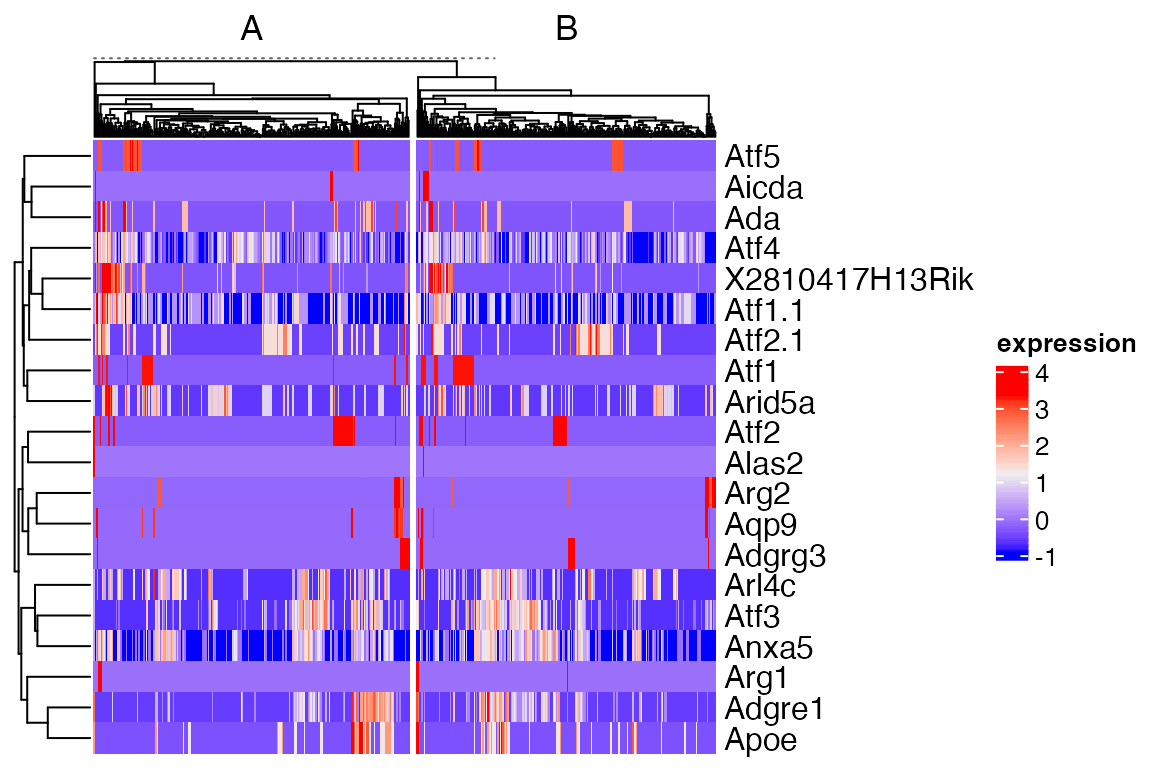
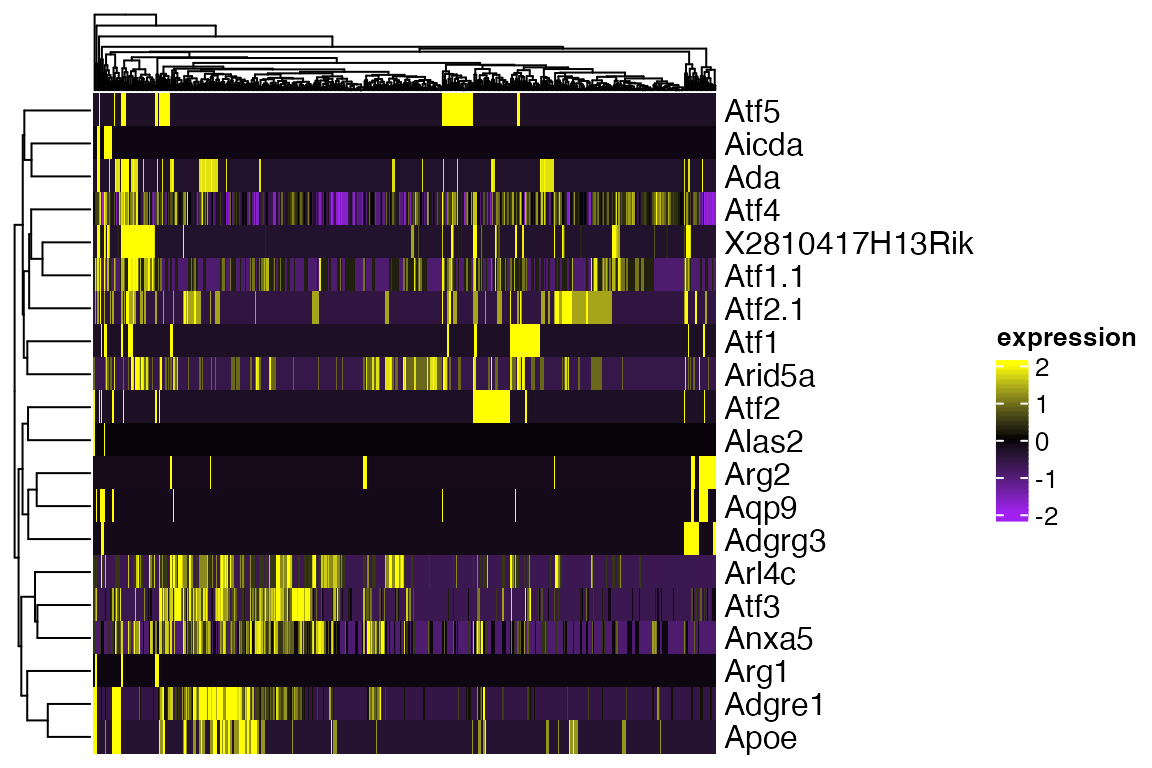
Built site for scmisc: 0.1.0@a576aa8

diff --git a/articles/introduction.html b/articles/introduction.html
@@ -162,14 +162,18 @@
 <p><img src="introduction_files/figure-html/unnamed-chunk-6-1.png" width="576"></p>
 <p>We can use <em>ComplexHeatmap</em> advance annotation features with the heatmap by passing them directly.</p>
 <div class="sourceCode" id="cb11"><pre class="downlit sourceCode r">
-<code class="sourceCode R"><span class="fu"><a href="../reference/plot_heatmap.html">plot_heatmap</a></span><span class="op">(</span><span class="va">sce</span><span class="op">[</span><span class="fl">1</span><span class="op">:</span><span class="fl">20</span>, <span class="op">]</span>, column_split <span class="op">=</span> <span class="va">sce</span><span class="op">$</span><span class="va">group1</span><span class="op">)</span></code></pre></div>
+<code class="sourceCode R"><span class="va">cols</span> <span class="op">&lt;-</span> <span class="fu">circlize</span><span class="fu">::</span><span class="fu"><a href="https://rdrr.io/pkg/circlize/man/colorRamp2.html">colorRamp2</a></span><span class="op">(</span><span class="fu"><a href="https://rdrr.io/r/base/c.html">c</a></span><span class="op">(</span><span class="op">-</span><span class="fl">2</span>, <span class="fl">0</span>, <span class="fl">2</span><span class="op">)</span>, <span class="fu"><a href="https://rdrr.io/r/base/c.html">c</a></span><span class="op">(</span><span class="st">"purple"</span>, <span class="st">"black"</span>, <span class="st">"yellow"</span><span class="op">)</span><span class="op">)</span>
+<span class="fu"><a href="../reference/plot_heatmap.html">plot_heatmap</a></span><span class="op">(</span><span class="va">sce</span><span class="op">[</span><span class="fl">1</span><span class="op">:</span><span class="fl">20</span>, <span class="op">]</span>, col <span class="op">=</span> <span class="va">cols</span><span class="op">)</span></code></pre></div>
 <p><img src="introduction_files/figure-html/unnamed-chunk-7-1.png" width="576"></p>
-<p>For column annotations we can directly pass the variable names to use with the color specification using <em>top_ann</em> and <em>top_ann_col</em>.</p>
 <div class="sourceCode" id="cb12"><pre class="downlit sourceCode r">
+<code class="sourceCode R"><span class="fu"><a href="../reference/plot_heatmap.html">plot_heatmap</a></span><span class="op">(</span><span class="va">sce</span><span class="op">[</span><span class="fl">1</span><span class="op">:</span><span class="fl">20</span>, <span class="op">]</span>, column_split <span class="op">=</span> <span class="va">sce</span><span class="op">$</span><span class="va">group1</span><span class="op">)</span></code></pre></div>
+<p><img src="introduction_files/figure-html/unnamed-chunk-8-1.png" width="576"></p>
+<p>For column annotations we can directly pass the variable names to use with the color specification using <em>top_ann</em> and <em>top_ann_col</em>.</p>
+<div class="sourceCode" id="cb13"><pre class="downlit sourceCode r">
 <code class="sourceCode R"><span class="va">col</span> <span class="op">&lt;-</span> <span class="fu"><a href="https://rdrr.io/r/base/list.html">list</a></span><span class="op">(</span>group1 <span class="op">=</span> <span class="fu"><a href="https://rdrr.io/r/base/c.html">c</a></span><span class="op">(</span>A <span class="op">=</span> <span class="st">"lightgrey"</span>, B <span class="op">=</span> <span class="st">"black"</span><span class="op">)</span>,
             group2 <span class="op">=</span> <span class="fu"><a href="https://rdrr.io/r/base/c.html">c</a></span><span class="op">(</span><span class="st">"C"</span> <span class="op">=</span> <span class="st">"limegreen"</span>, <span class="st">"D"</span> <span class="op">=</span> <span class="st">"violetred"</span><span class="op">)</span><span class="op">)</span>
 <span class="fu"><a href="../reference/plot_heatmap.html">plot_heatmap</a></span><span class="op">(</span><span class="va">sce</span><span class="op">[</span><span class="fl">1</span><span class="op">:</span><span class="fl">20</span>, <span class="op">]</span>, column_split <span class="op">=</span> <span class="va">sce</span><span class="op">$</span><span class="va">group1</span>, top_ann <span class="op">=</span> <span class="fu"><a href="https://rdrr.io/r/base/c.html">c</a></span><span class="op">(</span><span class="st">"group1"</span>, <span class="st">"group2"</span><span class="op">)</span>, top_ann_col <span class="op">=</span> <span class="va">col</span><span class="op">)</span></code></pre></div>
-<p><img src="introduction_files/figure-html/unnamed-chunk-8-1.png" width="576"></p>
+<p><img src="introduction_files/figure-html/unnamed-chunk-9-1.png" width="576"></p>
 </div>
 </div>
   </div>
